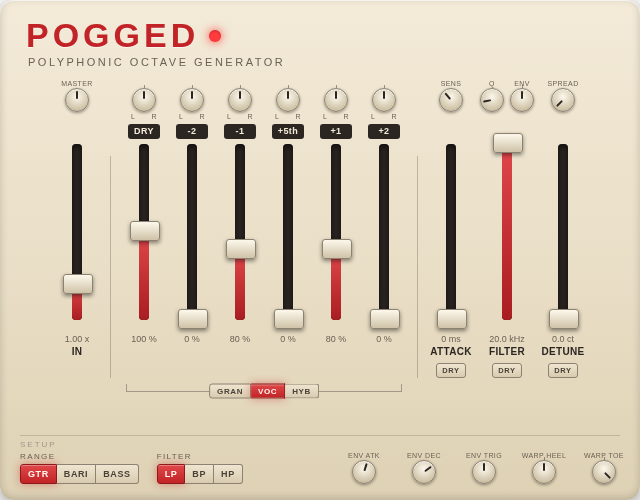
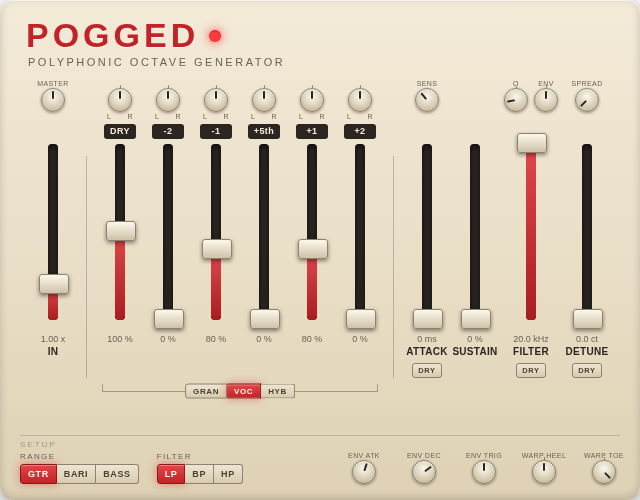
§37 : SUSTAIN en un seul fader (0 = off), sur le panneau apres ATTACK
Fusionne les deux ports sustain/sustain_ms en UN SEUL controle `sustain`
(idx 37, 0-5000 ms) : 0 = off, > 0 = ON avec ce release, le max (5000) = infini.
Le DSP derive le on/off de la position (> 0.5). Plus simple et un seul curseur.

- port unique dans PoggedParams / plugin.cpp / pogged.ttl (units ms, defaut 0) ;
- JUCE : un parametre `sustain` (0-5000, defaut 0) + colonne fader SUSTAIN dans
  l'editeur, inseree juste apres ATTACK (le bracket FOCUS suit les colonnes) ;
- modgui : fader SUSTAIN insere apres ATTACK (knobs vide -> alignement, pas de
  lampe DRY). Le bracket FOCUS recale (left 106->82 / right 218->242) car
  l'ajout d'une colonne recentre le board. Aligne : modgui_measure OK (toutes
  les pistes/lectures sur la meme ligne, bracket sur ses colonnes).
- screenshot + thumbnail regeneres ; defaut `sustain` ajoute a l'outil.

Compile propre 3 configs, audit vert. README : ligne Sustain unifiee.

Claude-Session: https://claude.ai/code/session_01MWYwhSAqB8qiZZQ8c1Hz9U

Changed region(s): [[0.0625, 0.15, 0.9688, 0.75], [0.2812, 0.75, 0.5, 0.81]]

diff --git a/pogged.lv2/modgui/icon-pogged.html b/pogged.lv2/modgui/icon-pogged.html
@@ -75,6 +75,12 @@
             <span class="pogged-fader-value" data-handle-value="attack_ms"></span>
             <span class="pogged-fader-label">ATTACK</span><button type="button" class="pogged-lamp pogged-fader-lamp" data-handle="dry_attack" title="Send the dry through the attack swell">DRY</button>
         </div>
+        <div class="pogged-fader" data-handle="sustain" data-min="0" data-max="5000" title="Sustain: 0 = off, up = hold/release time; top = infinite (holds until the next attack)">
+            <div class="pogged-knobs"></div>
+            <div class="pogged-lr-spacer"></div><div class="pogged-key-spacer"></div><div class="pogged-fader-track"><div class="pogged-fader-fill"></div><div class="pogged-fader-cap"></div></div>
+            <span class="pogged-fader-value" data-handle-value="sustain"></span>
+            <span class="pogged-fader-label">SUSTAIN</span><div class="pogged-lamp-spacer"></div>
+        </div>
         <div class="pogged-fader pogged-fader-wide" data-handle="lp_cutoff" data-min="20" data-max="20000" data-scale="log" title="Filter frequency">
             <div class="pogged-knobs"><div class="pogged-knob" data-handle="lp_q" data-min="0.5" data-max="8" data-scale="log" title="Filter resonance"><div class="pogged-knob-dial"></div><span class="pogged-knob-label">Q</span></div><div class="pogged-knob" data-handle="filter_env" data-min="-1" data-max="1" data-detent="0" title="Filter envelope depth (centre = off)"><div class="pogged-knob-dial"></div><span class="pogged-knob-label">ENV</span></div></div>
             <div class="pogged-lr-spacer"></div><div class="pogged-key-spacer"></div><div class="pogged-fader-track"><div class="pogged-fader-fill"></div><div class="pogged-fader-cap"></div></div>

diff --git a/pogged.lv2/modgui/stylesheet-pogged.css b/pogged.lv2/modgui/stylesheet-pogged.css
@@ -335,7 +335,7 @@
    through the ATTACK lamp and overhung the right by 42px. modgui_measure.js
    now checks both brackets against the columns they group, so a column change
    fails the tool instead of silently sliding the bracket off its buttons. */
-.pogged-panel{{{cns}}} .pogged-bracket-focus { left: 106px; right: 218px; }
+.pogged-panel{{{cns}}} .pogged-bracket-focus { left: 82px; right: 242px; }
 /* FOCUS 3-way selector rides ON the bracket's HORIZONTAL LINE — its centre sits
    on the bottom border (the wide line), not on the middle of the 7 px box whose
    height includes the side ticks. bottom:0 puts its lower edge on the line, then

diff --git a/tools/modgui_screenshot.js b/tools/modgui_screenshot.js
@@ -33,6 +33,7 @@ const PORTS = {
   filter_sens: 0.5, range_mode: 0, focus: 1,
   input_gain: 1.0, dry_attack: 0, dry_filter: 0, dry_detune: 0,
   warp: 0.0, warp_heel: 0.0, warp_toe: 12.0,
+  freeze: 0.0, sustain: 0.0,
 };
 
 const PANEL_W = 640, PANEL_H = 500;

diff --git a/src/pogged_dsp.h b/src/pogged_dsp.h
@@ -100,15 +100,13 @@ typedef struct {
                                             or a DAW's automation / MIDI learn)
                                             rather than as a fader nobody would
                                             drag by hand.                       */
-    float sustain;       /* idx 37 [0/1]  §37 infinite-sustain toggle. Distinct
-                                            from FREEZE: this auto-holds each note
-                                            (once the vocoder body settles) until
-                                            the next attack, in Vocoder or Hybrid
-                                            Focus. 0 = off.                      */
-    float sustain_ms;    /* idx 38 [200 – 5000]  how long a held note takes to
-                                            fade (its release). 5000 = the max is
-                                            treated as INFINITE: the note holds
-                                            until the next attack, however long.  */
+    float sustain;       /* idx 37 [0 – 5000]  §37 sustain, one control carrying
+                                            both its on/off AND its decay: 0 = off,
+                                            > 0 = ON with that release time in ms.
+                                            The maximum (5000) is treated as
+                                            INFINITE — the note holds until the
+                                            next attack, however long. Distinct
+                                            from FREEZE; works in Vocoder/Hybrid.  */
 } PoggedParams;
 
 typedef struct PoggedDsp PoggedDsp;          /* opaque state */

diff --git a/juce/PluginProcessor.cpp b/juce/PluginProcessor.cpp
@@ -99,9 +99,9 @@ APVTS::ParameterLayout PoggedAudioProcessor::createLayout()
 
     // §37 SUSTAIN — a hands-free infinite sustain, distinct from FREEZE: each note
     // is auto-held once the vocoder body settles, until the next attack (Vocoder
-    // or Hybrid Focus). On/off, plus a release time whose max means "hold forever".
-    p.add(std::make_unique<juce::AudioParameterBool>(pid("sustain"), "Sustain", false));
-    p.add(std::make_unique<AF>(pid("sustain_ms"), "Sustain Time", Range(200.0f, 5000.0f), 3000.0f));
+    // or Hybrid Focus). ONE fader carries on/off AND the decay: 0 = off, above 0 =
+    // on with that release (ms), the max (5000) = infinite.
+    p.add(std::make_unique<AF>(pid("sustain"), "Sustain", Range(0.0f, 5000.0f), 0.0f));
 
     return p;
 }
@@ -148,7 +148,6 @@ PoggedAudioProcessor::PoggedAudioProcessor()
     pWarpToe  = raw("warp_toe");
     pFreeze   = raw("freeze");
     pSustain  = raw("sustain");
-    pSustainMs = raw("sustain_ms");
 }
 
 PoggedAudioProcessor::~PoggedAudioProcessor()
@@ -203,7 +202,7 @@ void PoggedAudioProcessor::processBlock(juce::AudioBuffer<float>& buffer, juce::
         pFiltEnvD->load(), pFiltSens->load(), pRange->load(), pFocus->load(),
         pInGain->load(), pDryAtk->load(), pDryFilt->load(), pDryDet->load(),
         pWarp->load(), pWarpHeel->load(), pWarpToe->load(),
-        pFreeze->load(), pSustain->load(), pSustainMs->load()
+        pFreeze->load(), pSustain->load()
     };
 
     // Mono-in engine (guitar): sum the input to mono, process once to stereo.

diff --git a/src/pogged_dsp.cpp b/src/pogged_dsp.cpp
@@ -847,12 +847,14 @@ void pogged_dsp_process(PoggedDsp* p, const PoggedParams* p_,
     // onset-driven hold/rise/fall (granular attack, vocoder body).
     const int   hyb_hold_n = (int)(HYB_HOLD_MS * 0.001f * sr);
     const float hyb_rise_c = 1.0f - std::exp(-1.0f / (HYB_RISE_MS * 0.001f * sr));
-    // §37 sustain (runtime): on/off, and the release fed to every wet vocoder.
-    // sustain_ms at its max means an infinite hold (release 0 = drone).
-    const bool  sustain_on = p_->sustain > 0.5f;
+    // §37 sustain (runtime): ONE control carries both on/off and the release.
+    // 0 = off; > 0 = on with that release (floored at 200 ms); the max = infinite
+    // (release 0 = drone, holds until the next attack).
+    const float sustain_val = std::clamp(p_->sustain, 0.0f, SUSTAIN_MAX_MS);
+    const bool  sustain_on  = sustain_val > 0.5f;
     const int   sust_delay_n = (int)(SUSTAIN_SETTLE_MS * 0.001f * sr);
     if (sustain_on) {
-        const float sms = std::clamp(p_->sustain_ms, 200.0f, SUSTAIN_MAX_MS);
+        const float sms = std::max(200.0f, sustain_val);
         const float rel = (sms >= SUSTAIN_MAX_MS) ? 0.0f : sms;   // max = infinite
         for (int v = 0; v < N_VOICES; ++v) {
             if (v == V_DRYD) continue;

diff --git a/src/plugin.cpp b/src/plugin.cpp
@@ -57,9 +57,8 @@ enum Port : uint32_t {
     P_WARP_HEEL    = 34,   // semitones at the heel
     P_WARP_TOE     = 35,   // semitones at the toe
     P_FREEZE       = 36,   // expression position: 0 = heel (live), 1 = toe
-    P_SUSTAIN      = 37,   // §37 infinite-sustain toggle [0/1]
-    P_SUSTAIN_MS   = 38,   // held-note release ms [200 – 5000], 5000 = infinite
-    P_COUNT        = 39
+    P_SUSTAIN      = 37,   // §37 sustain: 0 = off, >0 = release ms, 5000 = infinite
+    P_COUNT        = 38
 };
 
 // Control ports are 2..13 and 15..20; index 14 is audio, so the ctl[] slot at
@@ -153,7 +152,6 @@ static void run(LV2_Handle handle, uint32_t n_samples)
         ctl(p, P_WARP_TOE),
         ctl(p, P_FREEZE),
         ctl(p, P_SUSTAIN),
-        ctl(p, P_SUSTAIN_MS),
     };
 
     pogged_dsp_process(p->dsp, &params, p->audio_in,

diff --git a/juce/PluginEditor.cpp b/juce/PluginEditor.cpp
@@ -376,6 +376,7 @@ namespace {
 
             { "attack_ms",    "ATTACK", "", false, "dry_attack", false,
               {{ "attack_sens", "SENS" }} },
+            { "sustain",      "SUSTAIN", "", false, "", false, {} },
             { "lp_cutoff",    "FILTER", "", false, "dry_filter", true,
               {{ "lp_q", "Q" }, { "filter_env", "ENV", true }} },
             { "detune_cents", "DETUNE", "", false, "dry_detune", false,

diff --git a/juce/PluginProcessor.h b/juce/PluginProcessor.h
@@ -84,7 +84,6 @@ private:
     std::atomic<float>* pWarpToe  = nullptr;
     std::atomic<float>* pFreeze   = nullptr;
     std::atomic<float>* pSustain  = nullptr;
-    std::atomic<float>* pSustainMs = nullptr;
 
     JUCE_DECLARE_NON_COPYABLE_WITH_LEAK_DETECTOR(PoggedAudioProcessor)
 };

diff --git a/README.md b/README.md
@@ -49,8 +49,7 @@ components).
 | Output | 0–200 % | Master output gain into a soft clipper. |
 | Pan (×6) | L–C–R | Per-voice placement in the stereo field (dry, −1, −2, +5th, +1, +2). Centre is full level on **both** outputs, so a single output still carries everything. |
 | Spread | 0–100 % | POG3 stereo delay on the +5th/+1/+2 voices — right channel 3× longer than left (≤150 ms / ≤50 ms). The sub octaves are excluded, as on the hardware. 0 = off (bit-transparent). |
-| Sustain | on/off | Hands-free infinite sustain (distinct from Freeze). Each note is auto-held once the vocoder body settles, until the next attack — so a held note (and its octaves) rings on while you stop or play over it. Works in **Vocoder or Hybrid** Focus (a vocoder must be sounding to freeze). Requires a `HYBRID=1` build. |
-| Sustain Time | 200 ms–5 s | How long a held note takes to fade (its release). The maximum (5 s) is treated as **infinite**: the note holds until the next attack, however long. |
+| Sustain | 0 / 200 ms–5 s | Hands-free infinite sustain (distinct from Freeze). One fader carries both on/off **and** the hold time: **0 = off**; above 0 auto-holds each note (once the vocoder body settles) until the next attack, fading over that release time; the **maximum (5 s) = infinite** (holds until you play again). Works in **Vocoder or Hybrid** Focus (a vocoder must be sounding to freeze). Requires a `HYBRID=1` build. |
 
 ## Presets
 
